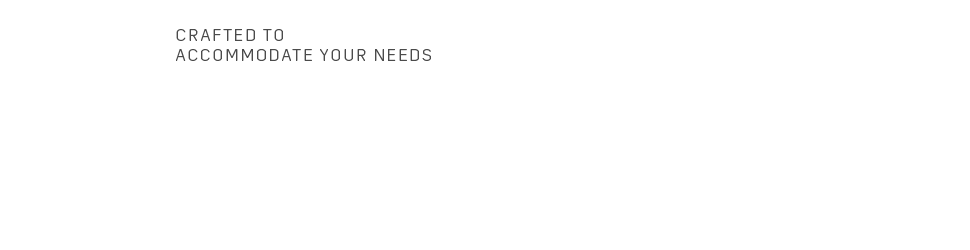
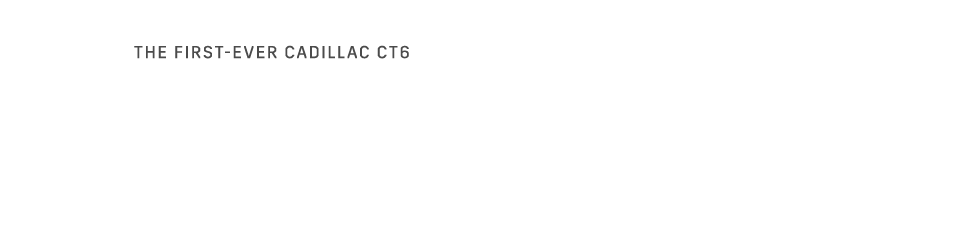
Completed initial build according to PSD

Changed region(s): [[0.1237, 0.112, 0.4639, 0.252]]

diff --git a/app/templates/js/animations/970x250.js b/app/templates/js/animations/970x250.js
@@ -3,18 +3,18 @@ var easeOut = Power1.easeOut;
 var timeline = new TimelineLite({onComplete: onComplete});
         timeline.add('frame1').add('start')
             .to('.copy1,.logo', 2, {opacity:1, ease:easeIn}, 'start')
-            .addDelay(1, 'frame2')
+            .addDelay(2, 'frame2')
         timeline.add('frame2')
             .to('.copy1', 1.5, {opacity: 0, ease: easeOut}, 'frame2')
-            .to('.copy2,.cta', 1.5, {opacity:1, ease:easeIn}, 'frame2')
-        timeline.add('frame3').add('end');
+            .to('.copy2', 1.5, {opacity:1, ease:easeIn}, 'frame2')
+            .addDelay(2, 'frame3')
+        timeline.add('frame3')
+            .to('.cta', 1.5, {opacity:1, ease:easeIn}, 'frame3')
+        timeline.add('frame4').add('end');
 
 
         timeline.add('masks')
-            .to('.masks .top', 2, {width:0,left:"+=70"}, 'start')
-            .to('.masks .left', 2, {height:0,top:"+=60"}, 'start')
-            .to('.masks .bottom-right', 2, {width:0,left:"+=100"}, 'start')
-            .to('.masks .bottom-bottom', 2, {height:0,top:"+=50"}, 'start')
-        timeline.add('frame3Background')
-            .to('.background1', 1.5, {opacity:0, ease:easeIn}, 'frame2')
-            .to('.background2', 1.5, {opacity:1, ease:easeIn}, 'frame2')
+            .to('.masks .top', 2, {width:0,left:"+=50"}, 'start')
+            .to('.masks .left', 2, {height:0,top:"+=50"}, 'start')
+            .to('.masks .bottom-right', 2, {width:0,left:"+=240"}, 'start')
+            .to('.masks .bottom-bottom', 2, {height:0,top:"+=56"}, 'start')

diff --git a/app/templates/css/970x250.scss b/app/templates/css/970x250.scss
@@ -12,30 +12,30 @@ html, body {
     #myAd {
         .masks {
             .top {
-                width: 70px;
-                height: 56px;
-                top: 14px;
-                left: 96px;
+                width: 50px;
+                height: 64px;
+                top: 0px;
+                left: 76px;
             }
 
             .left {
-                top: 158px;
-                height: 60px;
-                width: 102px;
+                top: 139px;
+                height: 50px;
+                width: 62px;
             }
 
             .bottom-right {
-                top: 74px;
-                left: 390px;
-                width: 100px;
-                height: 176px;
+                top: 68px;
+                left: 317px;
+                width: 240px;
+                height: 182px;
             }
 
             .bottom-bottom {
-                top: 200px;
-                left: 107px;
-                width: 383px;
-                height: 50px;
+                top: 194px;
+                left: 67px;
+                width: 490px;
+                height: 56px;
             }
         }
 

diff --git a/app/templates/index.html b/app/templates/index.html
@@ -32,7 +32,6 @@
                         <div class="bottom-bottom"></div>
                     </div>
                     <img class="background1 item show" src="car.jpg">
-                    <img class="background2 item" src="lifestyle.jpg">
                 </div>
                 <div class="copy">
                     <img class="copy1 item" src="frame1Copy.png">

diff --git a/app/templates/css/global.scss b/app/templates/css/global.scss
@@ -5,6 +5,10 @@
 }
 
 .{namespace} {
+    img[src=""]{
+        content: "";
+    }
+
     #border, #myAd {
         background-color: white;
         position: relative;
